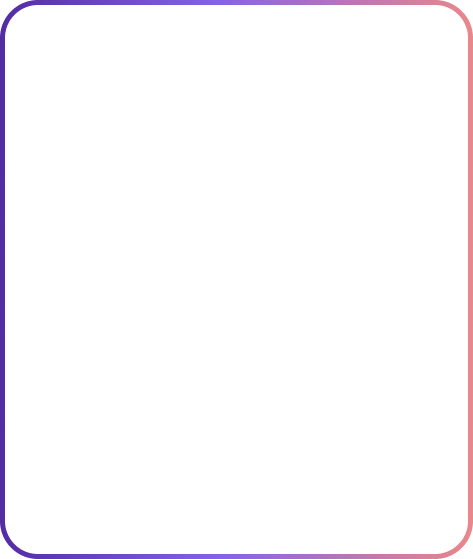
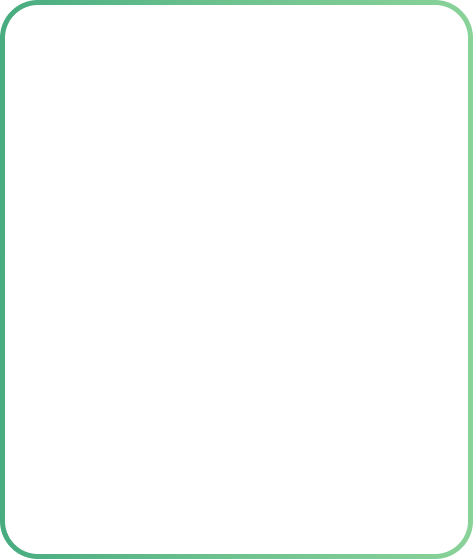
green color theme and minor changes

Changed region(s): [[0.0, 0.0, 0.9767, 0.9732], [0.0296, 0.9732, 0.9767, 1.0], [0.9767, 0.0304, 1.0, 0.9732]]

diff --git a/static/js/main.78bccb63.js b/static/js/main.78bccb63.js
@@ -7733,7 +7733,7 @@
                                         className: "",
                                         children: [(0, l.jsx)("img", {
                                             "data-aos": "fade-up",
-                                            src: m,
+                                            src: emp,
                                             alt: "Logo",
                                             className: "sm:flex mx-auto absolute -mt-8"
                                         }), (0, l.jsx)("img", {
@@ -7870,7 +7870,7 @@
                                         "data-aos": "fade-up",
                                         className: "flex flex-col items-center justify-center text-center border border-white-50 rounded-xl px-6 py-8 h-96 gap-y-8 bg-blue-50",
                                         children: [(0, l.jsx)("img", {
[1 lines of base64/hex data omitted]
+                                            src: "static/media/1.png",
                                             alt: ""
                                         }), (0, l.jsx)("p", {
                                             className: "md:text-2xl text-xl font-semibold",
@@ -7883,7 +7883,7 @@
                                         "data-aos": "fade-up",
                                         className: "flex flex-col items-center justify-center text-center border border-white-50 rounded-xl px-6 py-8 h-96 gap-y-8 bg-blue-50",
                                         children: [(0, l.jsx)("img", {
[1 lines of base64/hex data omitted]
+                                            src: "static/media/2.png",
                                             alt: ""
                                         }), (0, l.jsx)("p", {
                                             className: "md:text-2xl text-xl font-semibold",
@@ -7896,8 +7896,8 @@
                                         "data-aos": "fade-up",
                                         className: "flex flex-col items-center justify-center text-center border border-white-50 rounded-xl px-6 py-8 h-96 gap-y-8 bg-blue-50",
                                         children: [(0, l.jsx)("img", {
[1 lines of base64/hex data omitted]
-                                            alt: ""
+                                            src: "static/media/3.png",
+                                             alt: ""
                                         }), (0, l.jsx)("p", {
                                             className: "md:text-2xl text-xl font-semibold",
                                             children: "Fiat On Ramp"
@@ -7909,7 +7909,7 @@
                                         "data-aos": "fade-up",
                                         className: "flex flex-col items-center justify-center text-center border border-white-50 rounded-xl px-6 py-8 h-96 gap-y-8 bg-blue-50",
                                         children: [(0, l.jsx)("img", {
[1 lines of base64/hex data omitted]
+                                            src: "static/media/4.png", 
                                             alt: ""
                                         }), (0, l.jsx)("p", {
                                             className: "md:text-2xl text-xl font-semibold",
@@ -7922,8 +7922,8 @@
                                         "data-aos": "fade-up",
                                         className: "flex flex-col items-center justify-center text-center border border-white-50 rounded-xl px-6 py-8 h-96 gap-y-8 bg-blue-50",
                                         children: [(0, l.jsx)("img", {
[1 lines of base64/hex data omitted]
-                                            alt: ""
+                                            src: "static/media/5.png",
+                                             alt: ""
                                         }), (0, l.jsx)("p", {
                                             className: "md:text-2xl text-xl font-semibold",
                                             children: "Contract /Token Scanner"
@@ -7935,7 +7935,7 @@
                                         "data-aos": "fade-up",
                                         className: "flex flex-col items-center justify-center text-center border border-white-50 rounded-xl px-6 py-8 h-96 gap-y-8 bg-blue-50",
                                         children: [(0, l.jsx)("img", {
[1 lines of base64/hex data omitted]
+                                            src: "static/media/6.png", 
                                             alt: ""
                                         }), (0, l.jsx)("p", {
                                             className: "md:text-2xl text-xl font-semibold",

diff --git a/static/css/main.e82e9a97.css b/static/css/main.e82e9a97.css
@@ -676,17 +676,18 @@ video {
 
 .bg-blue-100 {
     --tw-bg-opacity: 1;
-    background-color: rgb(19 3 25/var(--tw-bg-opacity));
+    background-color: rgb(5 21 3/var(--tw-bg-opacity));
 }
 
 .bg-purple-100 {
     --tw-bg-opacity: 1;
-    background-color: rgb(189 71 251/var(--tw-bg-opacity));
+    background-color: rgb(33 226 98/var(--tw-bg-opacity));
 }
 
 .bg-blue-50 {
     --tw-bg-opacity: 1;
-    background-color: rgb(21 10 25/var(--tw-bg-opacity));
+    background-color: rgb(10 25 12/var(--tw-bg-opacity));
+    /* color: rgb(10, 25, 12); */
 }
 
 .bg-top {
@@ -989,9 +990,14 @@ html {
 
 .tradingview{
     width: 60%;
+    color: #aaaaaa;
 }
 
-
+@media only screen and (max-width: 600px) {
+    .tradingview{
+        width: 90%;
+    }
+  }
 
 
 .bg_feature {
@@ -1015,11 +1021,11 @@ html {
 }
 
 .btn-gradient {
-    background: linear-gradient(90deg, rgb(39, 69, 234) 2.94%, rgb(207, 123, 244));
+    background: linear-gradient(90deg, rgb(39, 234, 98) 2.94%, rgb(123, 244, 129));
 }
 
 .bg-gradient {
-    background: linear-gradient(265.6deg, rgb(221, 91, 239) 0.26%, rgb(78, 6, 88) 99.5%);
+    background: linear-gradient(265.6deg, rgb(91, 239, 123) 0.26%, rgb(6, 88, 17) 99.5%);
 }
 
 .text-gradient {
@@ -1028,7 +1034,7 @@ html {
 }
 
 .bg-dark-bottom {
-    background: linear-gradient(359.43deg, rgb(27, 0, 37) 11.06%, rgba(11, 29, 51, 0) 99.43%);
+    background: linear-gradient(359.43deg, rgb(0, 37, 5) 11.06%, rrgba(16, 51, 11, 0)99.43%);
 }
 
 .border-gradient {
